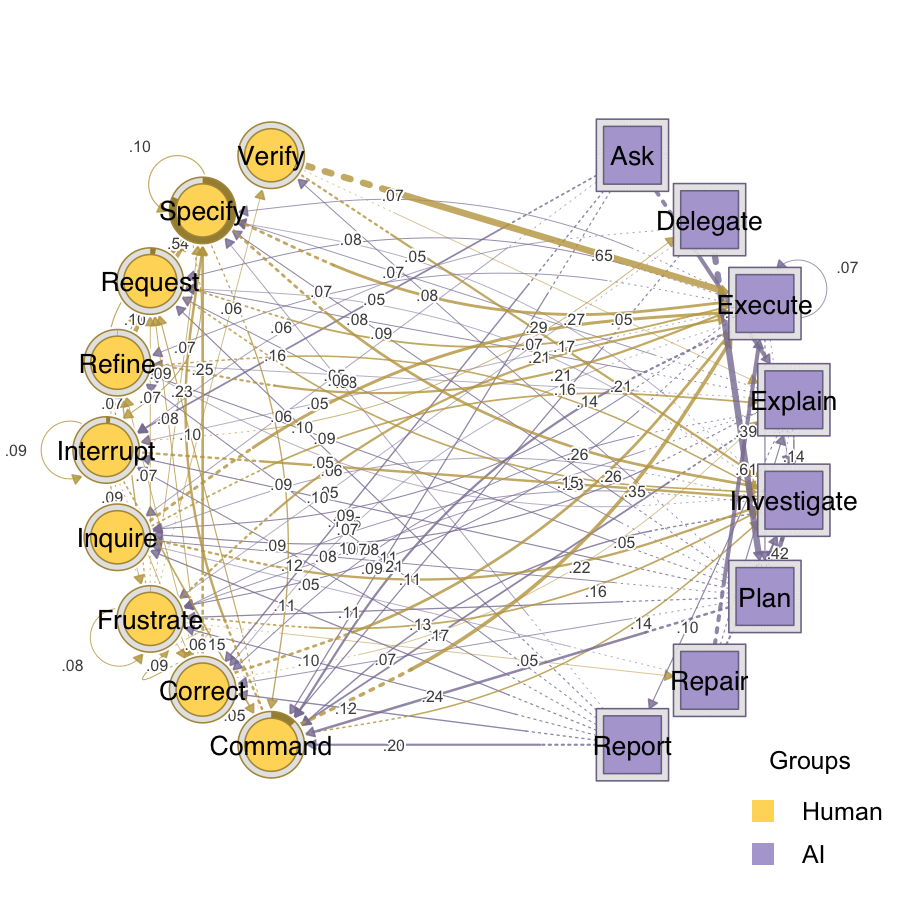
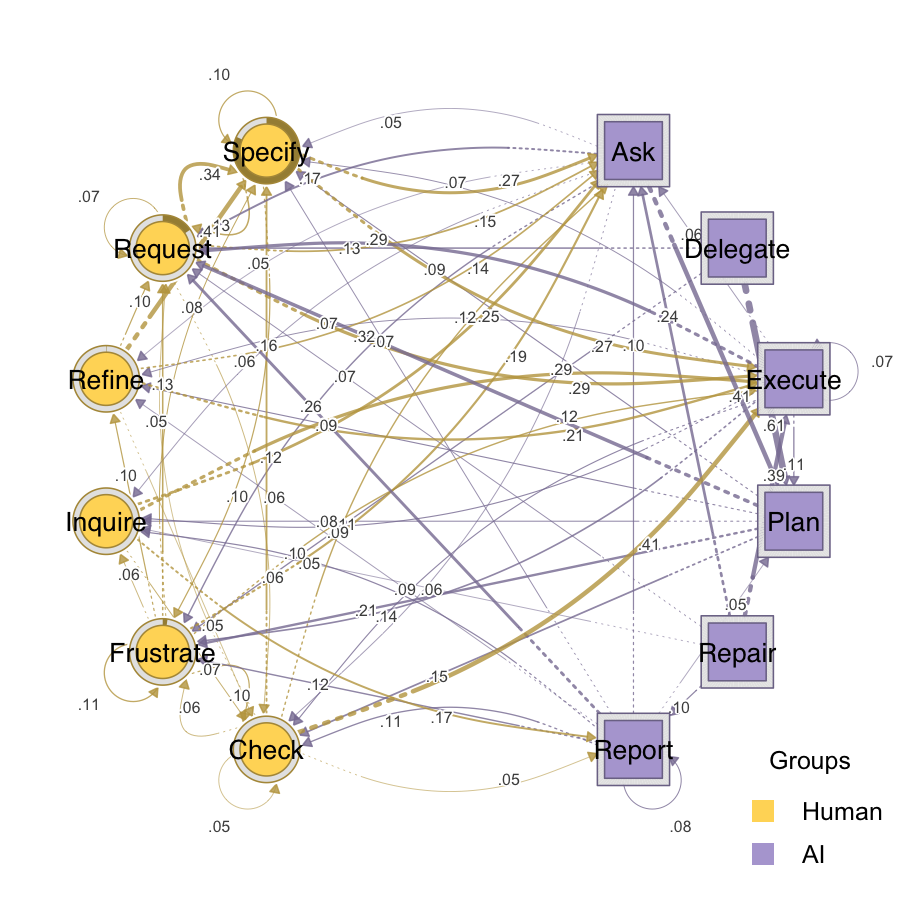
Update README2

diff --git a/README.md b/README.md
@@ -40,23 +40,22 @@ devtools::install_github("sonsoleslp/htna")
 library("htna")
 ```
 
-Load the example data shipped with `Nestimate`:
+Load the example data shipped with `htna`:
 
 ``` r
-data(human_long, ai_long, package = "Nestimate")
+data(human_ai)
 ```
 
 ### Build a heterogeneous transition network
 
-`build_htna()` takes a named list of long-format data frames, one per
-actor group, combines the sequences, estimates transition probabilities,
-and stores the actor partition on the resulting network:
+`build_htna()` takes a data frame with a column indicating the actor
+type, combines the sequences, estimates transition probabilities, and
+stores the actor partition on the resulting network:
 
 ``` r
-net <- build_htna(list(Human = human_long, AI = ai_long))
+net <- build_htna(human_ai, actor_type = "actor_type")
 #> Warning: S3 methods 'print.wtna_perm_mixed', 'summary.wtna_perm_mixed' were
 #> declared in NAMESPACE but not found
-#> Metadata aggregated per session: ties resolved by first occurrence in 'session_date' (1 sessions), 'cluster' (42 sessions)
 ```
 
 ### Plot the network
@@ -66,10 +65,6 @@ distinct colours:
 
 ``` r
 plot_htna(net, threshold = 0.05, layout = "circular")
-#> Registered S3 methods overwritten by 'cograph':
-#>   method             from     
-#>   plot.net_stability Nestimate
-#>   print.mcml         Nestimate
 ```
 
 <img src="man/figures/README-htna-plot-1.png" alt="" width="60%" style="display: block; margin: auto;" />
@@ -82,30 +77,19 @@ patterns and tags each row with the type-level template it instantiates:
 ``` r
 extract_meta_paths(net)
 #> Patterns (state-level) over 429 sequences
-#> Rows: 7952 | Lengths: 2, 3, 4 | Gaps: 0
-#>                schema  meta_schema length gap count n_seq support frequency
-#>     Investigate->Plan       AI->AI      2   0   962   346   0.807     0.051
-#>      Specify->Execute    Human->AI      2   0   796   261   0.608     0.042
-#>  Specify->Investigate    Human->AI      2   0   764   289   0.674     0.040
-#>      Command->Execute    Human->AI      2   0   722   267   0.622     0.038
-#>      Execute->Command    AI->Human      2   0   659   225   0.524     0.035
-#>      Request->Specify Human->Human      2   0   573   295   0.688     0.030
-#>      Command->Specify Human->Human      2   0   469   246   0.573     0.025
-#>         Plan->Command    AI->Human      2   0   375   220   0.513     0.020
-#>      Specify->Command Human->Human      2   0   361   354   0.825     0.019
-#>         Execute->Plan       AI->AI      2   0   337   181   0.422     0.018
-#>  lift
-#>  5.07
-#>  1.66
-#>  2.23
-#>  2.14
-#>  1.95
-#>  3.69
-#>  1.55
-#>  2.23
-#>  1.19
-#>  1.26
-#> ... (7942 more)
+#> Rows: 5445 | Lengths: 2, 3, 4 | Gaps: 0
+#>              schema  meta_schema length gap count n_seq support frequency lift
+#>    Request->Specify Human->Human      2   0  1042   402   0.937     0.055 2.27
+#>           Ask->Plan       AI->AI      2   0   964   346   0.807     0.051 4.87
+#>    Execute->Request    AI->Human      2   0   921   269   0.627     0.049 1.80
+#>    Request->Execute    Human->AI      2   0   904   299   0.697     0.048 1.77
+#>    Specify->Execute    Human->AI      2   0   796   261   0.608     0.042 1.66
+#>        Specify->Ask    Human->AI      2   0   784   292   0.681     0.041 2.20
+#>      Check->Execute    Human->AI      2   0   534   243   0.566     0.028 2.50
+#>       Plan->Request    AI->Human      2   0   503   268   0.625     0.027 1.98
+#>        Request->Ask    Human->AI      2   0   459   222   0.517     0.024 1.21
+#>  Execute->Frustrate    AI->Human      2   0   451   230   0.536     0.024 1.50
+#> ... (5435 more)
 ```
 
 Filter to concrete instances of a type-level template. Schema parts can
@@ -114,56 +98,56 @@ mix type names, concrete codes, and `*`:
 ``` r
 extract_meta_paths(net, schema = "Human->AI->Human")
 #> State-level instances of schema 'Human->AI->Human' over 429 sequences
-#> Rows: 345 | Lengths: 3 | Gaps: 0
-#>                         schema      meta_schema length gap count n_seq support
-#>      Command->Execute->Command Human->AI->Human      3   0   288   150   0.350
-#>      Specify->Execute->Command Human->AI->Human      3   0   111    83   0.193
-#>  Command->Investigate->Command Human->AI->Human      3   0    84    60   0.140
-#>      Command->Execute->Inquire Human->AI->Human      3   0    79    64   0.149
-#>  Specify->Investigate->Command Human->AI->Human      3   0    78    62   0.145
-#>      Command->Execute->Request Human->AI->Human      3   0    70    63   0.147
-#>      Specify->Execute->Request Human->AI->Human      3   0    65    47   0.110
-#>       Verify->Execute->Command Human->AI->Human      3   0    62    52   0.121
-#>    Specify->Execute->Frustrate Human->AI->Human      3   0    58    41   0.096
-#>    Command->Execute->Frustrate Human->AI->Human      3   0    57    50   0.117
+#> Rows: 163 | Lengths: 3 | Gaps: 0
+#>                       schema      meta_schema length gap count n_seq support
+#>    Request->Execute->Request Human->AI->Human      3   0   401   194   0.452
+#>    Specify->Execute->Request Human->AI->Human      3   0   176   107   0.249
+#>        Request->Ask->Request Human->AI->Human      3   0   130    91   0.212
+#>      Check->Execute->Request Human->AI->Human      3   0   123    96   0.224
+#>        Specify->Ask->Request Human->AI->Human      3   0   120    84   0.196
+#>  Specify->Execute->Frustrate Human->AI->Human      3   0   114    88   0.205
+#>  Request->Execute->Frustrate Human->AI->Human      3   0   106    88   0.205
+#>    Request->Execute->Inquire Human->AI->Human      3   0    97    76   0.177
+#>      Specify->Ask->Frustrate Human->AI->Human      3   0    86    70   0.163
+#>    Inquire->Execute->Request Human->AI->Human      3   0    73    52   0.121
 #>  frequency lift
-#>      0.080 8.22
-#>      0.031 2.23
-#>      0.023 3.37
-#>      0.022 5.43
-#>      0.022 2.20
-#>      0.019 3.90
-#>      0.018 2.54
-#>      0.017 7.26
-#>      0.016 2.54
-#>      0.016 3.56
-#> ... (335 more)
+#>      0.112 5.00
+#>      0.049 2.33
+#>      0.036 2.19
+#>      0.034 3.67
+#>      0.033 2.15
+#>      0.032 2.57
+#>      0.030 2.24
+#>      0.027 4.40
+#>      0.024 2.61
+#>      0.020 3.31
+#> ... (153 more)
 extract_meta_paths(net, schema = "Human->Ask->*")
 #> State-level instances of schema 'Human->Ask->*' over 429 sequences
-#> Rows: 39 | Lengths: 3 | Gaps: 0
+#> Rows: 63 | Lengths: 3 | Gaps: 0
 #>                   schema      meta_schema length gap count n_seq support
-#>    Inquire->Ask->Explain    Human->AI->AI      3   0    12    11   0.026
-#>  Specify->Ask->Interrupt Human->AI->Human      3   0     5     5   0.012
-#>    Inquire->Ask->Command Human->AI->Human      3   0     4     4   0.009
-#>    Command->Ask->Correct Human->AI->Human      3   0     4     4   0.009
-#>    Request->Ask->Explain    Human->AI->AI      3   0     4     4   0.009
-#>    Specify->Ask->Explain    Human->AI->AI      3   0     4     4   0.009
-#>  Inquire->Ask->Interrupt Human->AI->Human      3   0     4     4   0.009
-#>  Frustrate->Ask->Correct Human->AI->Human      3   0     3     3   0.007
-#>    Command->Ask->Explain    Human->AI->AI      3   0     3     3   0.007
-#>    Command->Ask->Command Human->AI->Human      3   0     2     2   0.005
-#>  frequency   lift
-#>      0.146 106.21
-#>      0.061   7.61
-#>      0.049   9.04
-#>      0.049   9.66
-#>      0.049  28.71
-#>      0.049  10.34
-#>      0.049  20.84
-#>      0.037  15.84
-#>      0.037  11.04
-#>      0.024   1.88
-#> ... (29 more)
+#>       Specify->Ask->Plan    Human->AI->AI      3   0   340   197   0.459
+#>     Frustrate->Ask->Plan    Human->AI->AI      3   0   214   187   0.436
+#>       Request->Ask->Plan    Human->AI->AI      3   0   139   106   0.247
+#>    Request->Ask->Request Human->AI->Human      3   0   130    91   0.212
+#>    Specify->Ask->Request Human->AI->Human      3   0   120    84   0.196
+#>  Specify->Ask->Frustrate Human->AI->Human      3   0    86    70   0.163
+#>       Inquire->Ask->Plan    Human->AI->AI      3   0    53    45   0.105
+#>        Refine->Ask->Plan    Human->AI->AI      3   0    52    46   0.107
+#>  Request->Ask->Frustrate Human->AI->Human      3   0    50    44   0.103
+#>    Specify->Ask->Specify Human->AI->Human      3   0    49    41   0.096
+#>  frequency  lift
+#>      0.170 11.65
+#>      0.107 11.71
+#>      0.070  4.48
+#>      0.065  2.19
+#>      0.060  2.15
+#>      0.043  2.61
+#>      0.027  6.22
+#>      0.026  6.57
+#>      0.025  1.43
+#>      0.025  0.93
+#> ... (53 more)
 ```
 
 Pass `level = "type"` for the type-level meta-path summary: